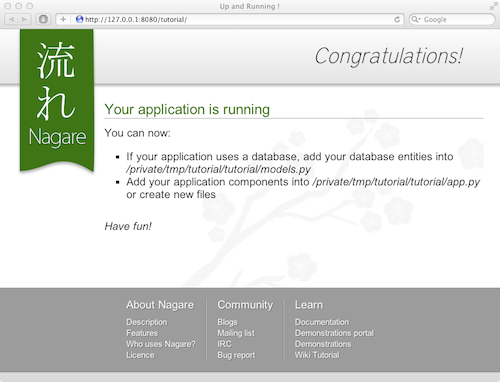
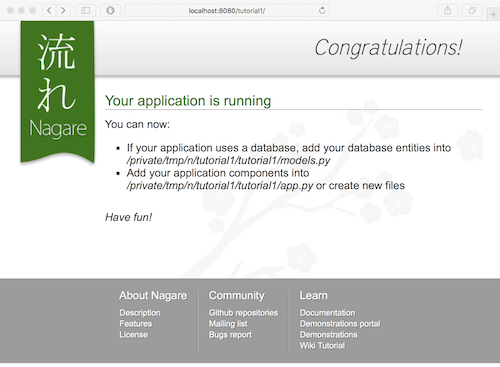
Updated documentation

diff --git a/nagare/admin/create.py b/nagare/admin/create.py
@@ -147,7 +147,7 @@ def create_app_py(filename, params):
             @presentation.render_for(%(Id)s)
             def render(self, h, *args):
                 NAGARE = 'http://www.nagare.org/'
-                NAGARE_DOC = NAGARE + 'trac/wiki/'
+                NAGARE_DOC = NAGARE + 'doc/'
 
                 this_file = __file__
                 if this_file.endswith('.pyc'):
@@ -203,16 +203,15 @@ def create_app_py(filename, params):
                         with h.tr:
                             with h.td:
                                 with h.ul:
-                                    h << h.li(h.a('Description', href=NAGARE_DOC+'NagareDescription'))  # noqa: E501
-                                    h << h.li(h.a('Features', href=NAGARE_DOC+'NagareFeatures'))  # noqa: E501
-                                    h << h.li(h.a('Who uses Nagare?', href=NAGARE_DOC+'WhoUsesNagare'))  # noqa: E501
-                                    h << h.li(h.a('Licence', href=NAGARE_DOC+'NagareLicence'))  # noqa: E501
+                                    h << h.li(h.a('Description', href=NAGARE_DOC+'description'))  # noqa: E501
+                                    h << h.li(h.a('Features', href=NAGARE_DOC+'features'))  # noqa: E501
+                                    h << h.li(h.a('License', href=NAGARE_DOC+'license'))  # noqa: E501
 
                             with h.td:
                                 with h.ul:
-                                    h << h.li(h.a('Blogs', href=NAGARE+'trac/blog'))  # noqa: E501
-                                    h << h.li(h.a('Mailing list', href=NAGARE_DOC+'MailingLists'))  # noqa: E501
-                                    h << h.li(h.a('Bug report', href=NAGARE_DOC+'BugReport'))  # noqa: E501
+                                    h << h.li(h.a('Github repositories', href='http://github.com/nagareproject'))  # noqa: E501
+                                    h << h.li(h.a('Mailing list', href='http://groups.google.com/group/nagare-users'))  # noqa: E501
+                                    h << h.li(h.a('Bugs report', href='https://github.com/nagareproject/core/issues'))  # noqa: E501
 
                             with h.td(class_='last'):
                                 with h.ul:
